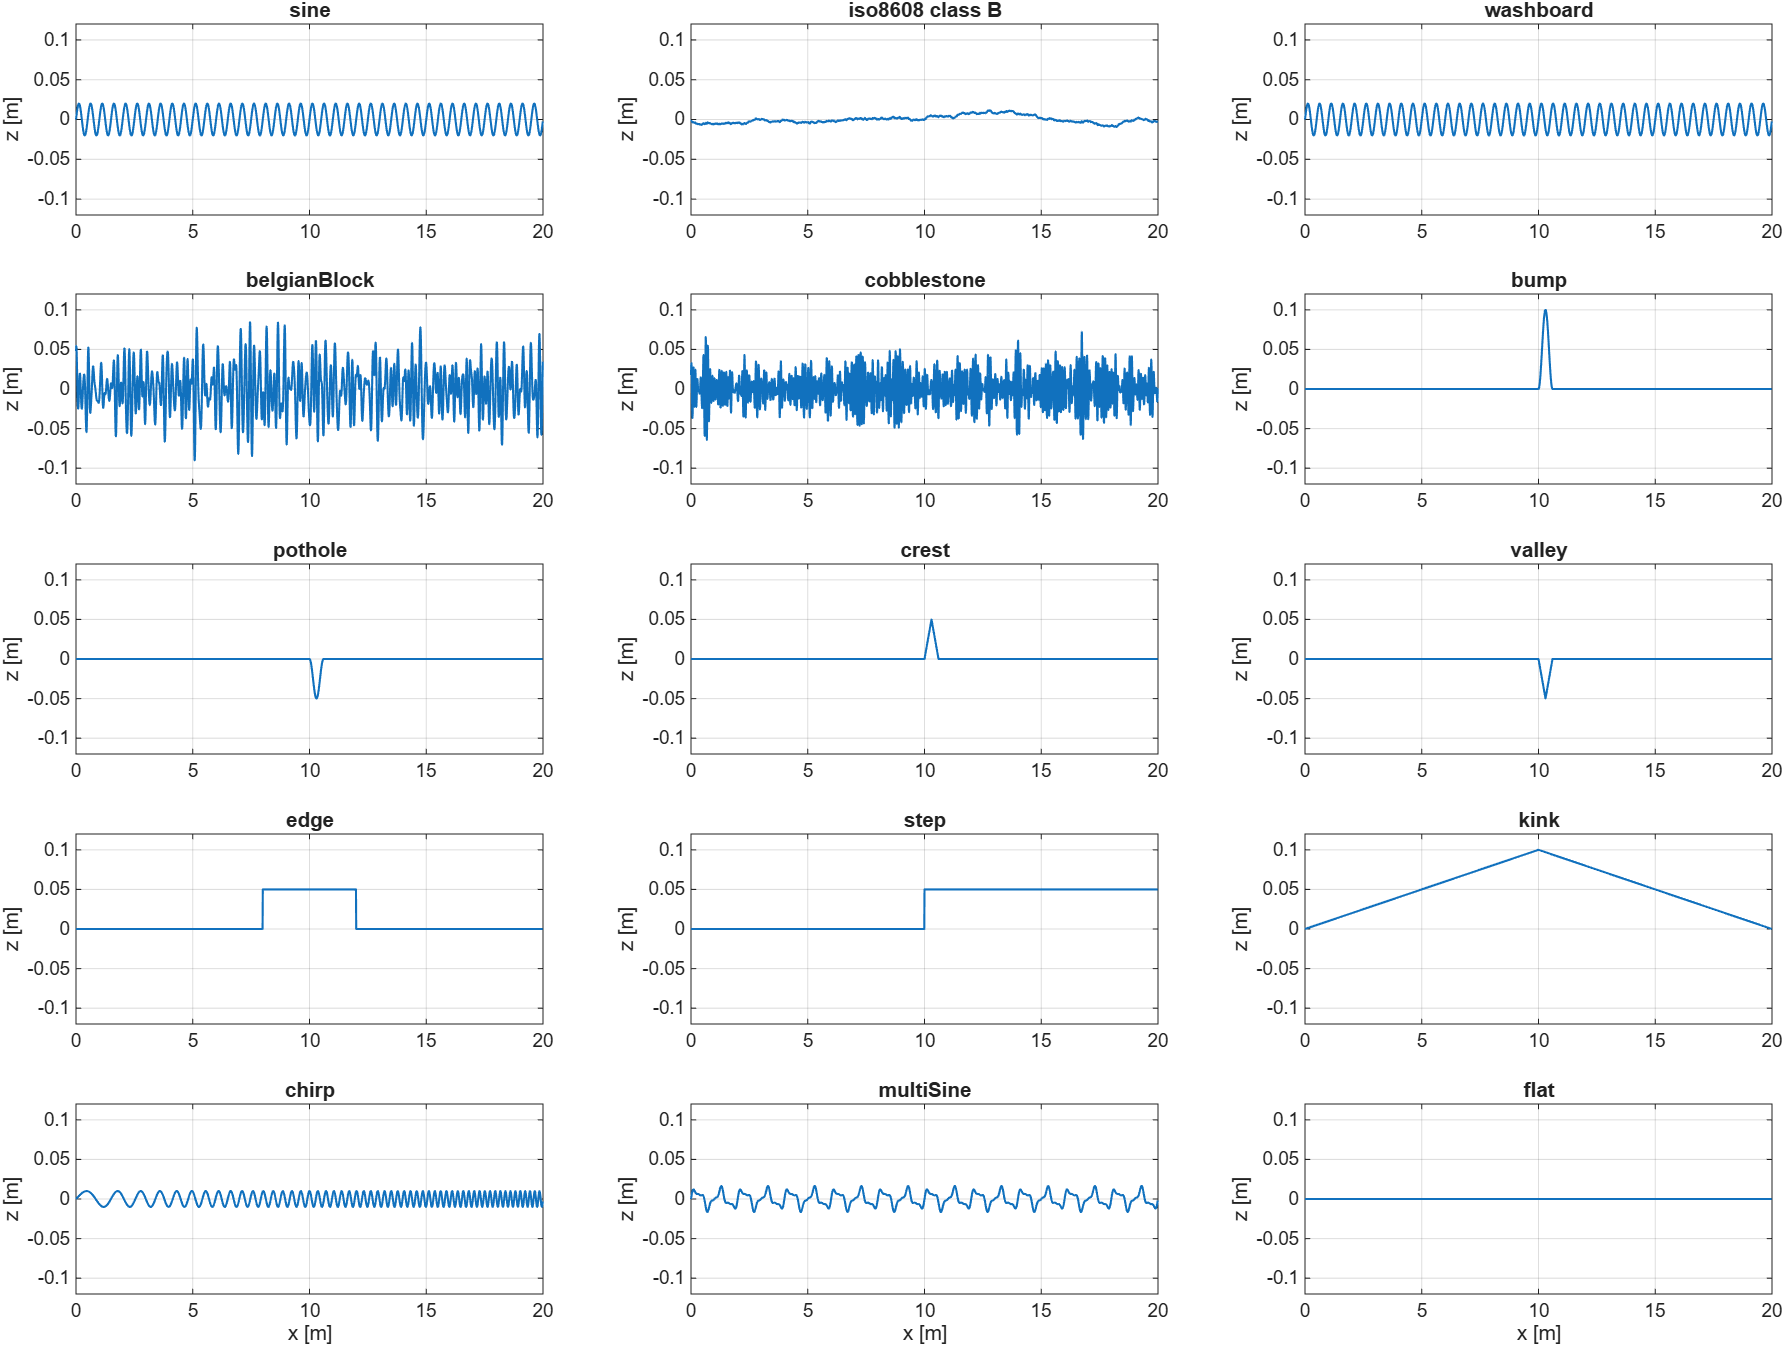
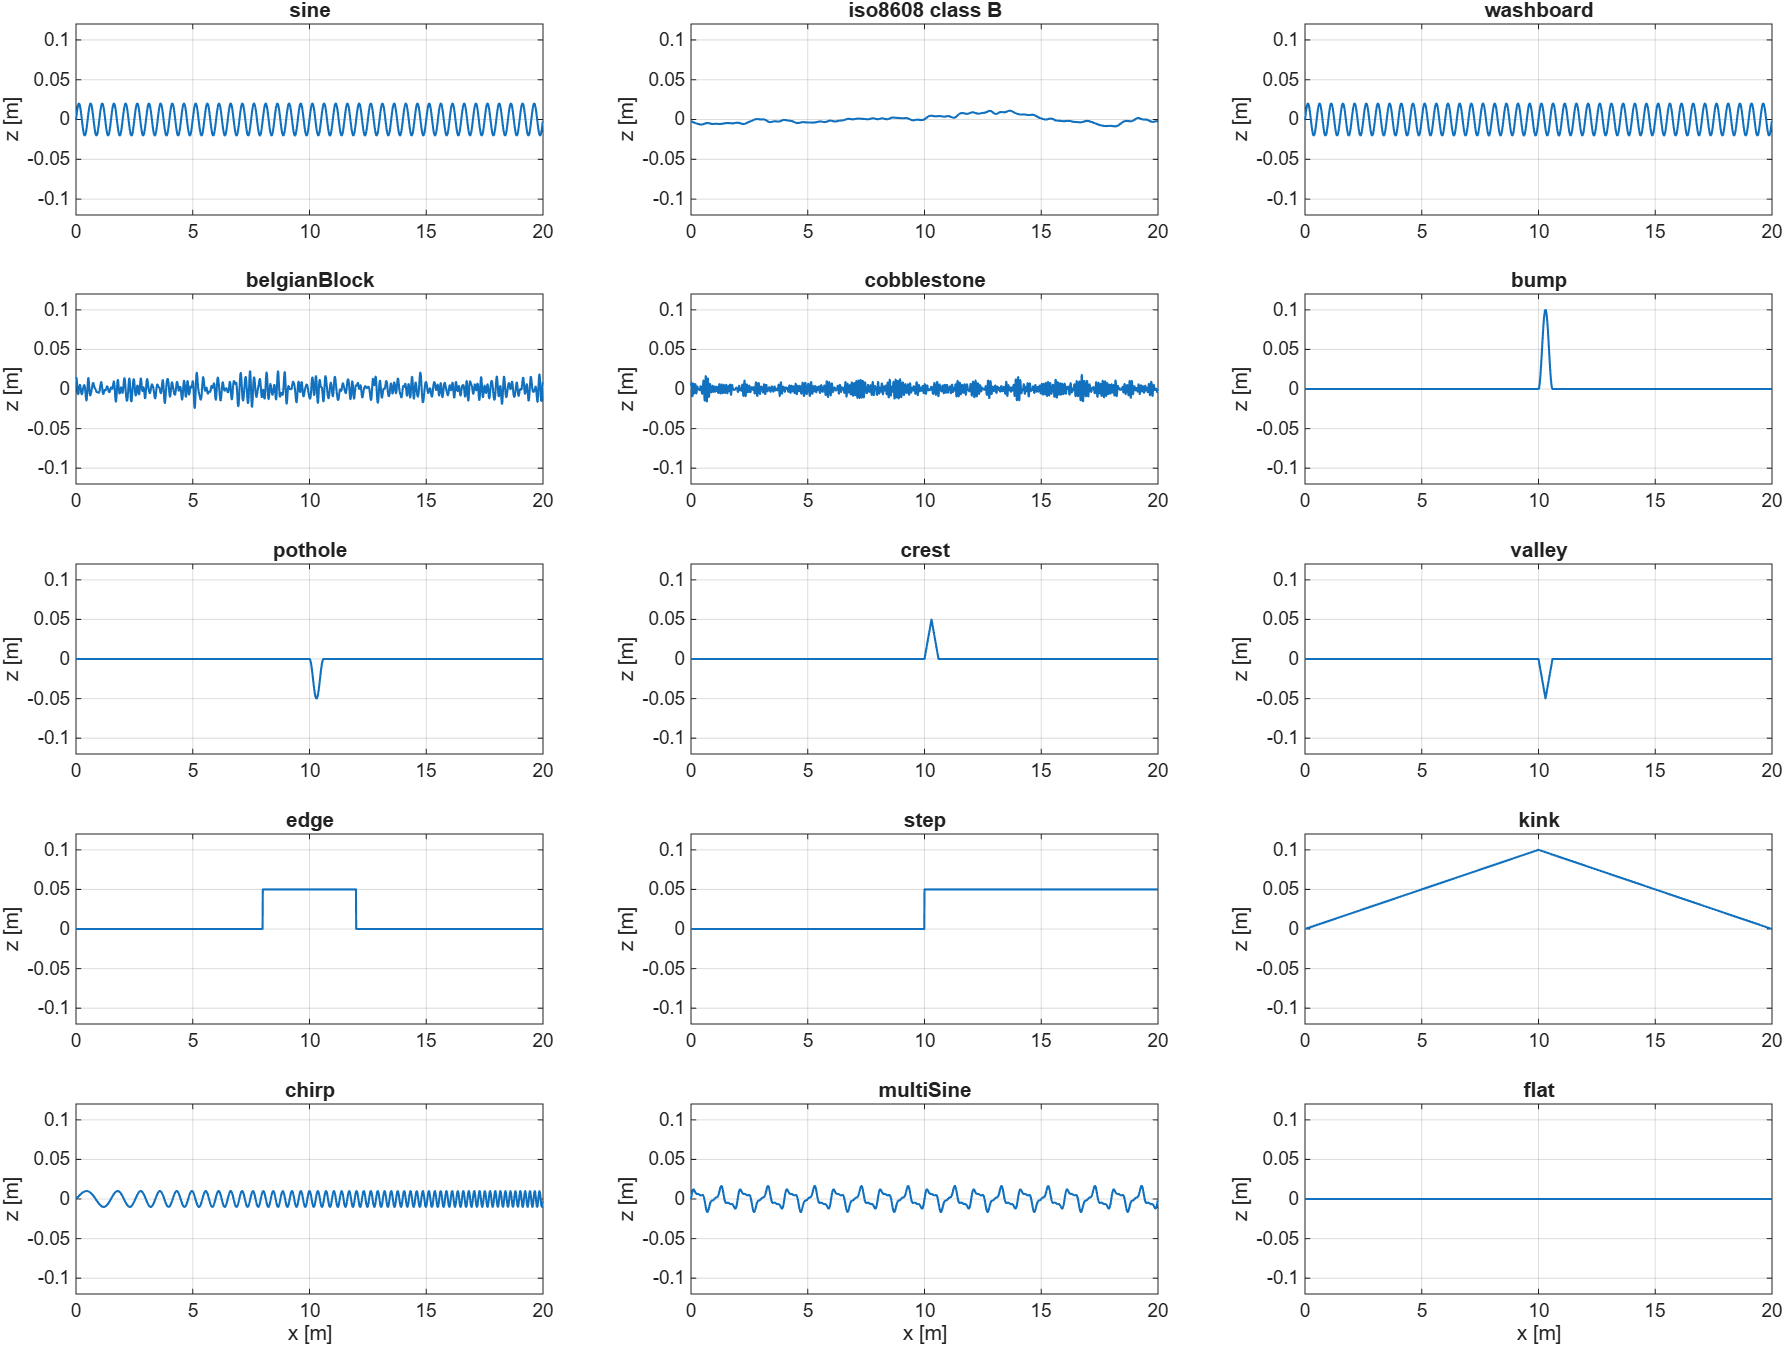
Regenerate figures and add PSD validation and class comparison scripts

Changed region(s): [[0.0308, 0.2496, 0.3083, 0.3432], [0.37, 0.2496, 0.6474, 0.312]]

diff --git a/examples/scenario_showcase.m b/examples/scenario_showcase.m
@@ -2,10 +2,11 @@
 %   Produces two figures:
 %     - results/scenario_showcase.png: full 1000 m scenario, coarse grid
 %       (dx = 0.02 m) to keep the plot readable at page width
-%     - results/scenario_zoom.png: 400-660 m, fine grid (dx = 0.005 m) to
+%     - results/scenario_zoom.png: fine grid (dx = 0.005 m) to
 %       show the two events (bump and pothole) clearly
 
-clear; clc; close all;
+%clear; 
+clc; close all;
 
 here = fileparts(mfilename('fullpath'));
 repoRoot = fileparts(here);
@@ -15,11 +16,11 @@ if ~exist(outDir, 'dir'), mkdir(outDir); end
 L = 1000;
 segs = [
     struct('Start',   0, 'Stop', 250, 'Type', "iso8608",     'Params', {{'B'}})
-    struct('Start', 250, 'Stop', 400, 'Type', "belgianBlock", 'Params', {{0.03, 0.20}})
+    struct('Start', 250, 'Stop', 400, 'Type', "belgianBlock", 'Params', {{0.008, 0.20}})
     struct('Start', 400, 'Stop', 450, 'Type', "flat",         'Params', {{}})
     struct('Start', 450, 'Stop', 450.6, 'Type', "bump",       'Params', {{0.10, 0.6, 0}})
     struct('Start', 450.6, 'Stop', 600, 'Type', "flat",       'Params', {{}})
-    struct('Start', 600, 'Stop', 650, 'Type', "cobblestone",  'Params', {{0.02, 0.10}})
+    struct('Start', 600, 'Stop', 650, 'Type', "cobblestone",  'Params', {{0.005, 0.10}})
     struct('Start', 650, 'Stop', 650.6, 'Type', "pothole",    'Params', {{0.06, 0.6, 0}})
     struct('Start', 650.6, 'Stop', 850, 'Type', "iso8608",    'Params', {{'C'}})
     struct('Start', 850, 'Stop', 900, 'Type', "washboard",    'Params', {{0.02, 0.5}})
@@ -42,11 +43,14 @@ fprintf('Saved %s\n', fullfile(outDir, 'scenario_showcase.png'));
 dxZ = 0.005;
 pZ = roadprofile.compose(L, dxZ, segs, Seed=42);
 fig2 = figure('Color', 'w', 'Position', [100 100 1200 450]);
-plot(pZ.x, pZ.z, 'LineWidth', 1.2);
-grid on;
-xlim([440 660]);
-xlabel('x [m]');
-ylabel('z [m]');
-title('Zoom: bump (450) + flat + cobblestone (600-650) + pothole (650)');
+tiledlayout(1, 2);
+windows = [449 452; 648 653];
+names = ["Bump at 450 m", "Pothole at 650 m"];
+for i = 1:2
+    nexttile;
+    plot(pZ.x, pZ.z, 'LineWidth', 1.2); grid on;
+    xlim(windows(i, :)); xlabel('x [m]'); ylabel('z [m]');
+    title(names(i));
+end
 exportgraphics(fig2, fullfile(outDir, 'scenario_zoom.png'), 'Resolution', 150);
 fprintf('Saved %s\n', fullfile(outDir, 'scenario_zoom.png'));

diff --git a/examples/psd_comparison.m b/examples/psd_comparison.m
@@ -1,0 +1,37 @@
+%PSD_COMPARISON Welch estimate of a generated profile vs ISO 8608.
+
+%clear; 
+clc; close all;
+
+outDir = fullfile(fileparts(fileparts(mfilename('fullpath'))), 'results');
+if ~exist(outDir, 'dir'), mkdir(outDir); end
+
+L = 10000; dx = 0.05; Ls = 200;          % road and segment length [m]
+p = roadprofile.iso8608Profile(L, dx, 'B', Seed=1);
+
+M = round(Ls/dx);  w = 0.5 - 0.5*cos(2*pi*(0:M-1)'/M);   % Hann
+starts = 1:M/2:numel(p.z)-M+1;
+P = zeros(M, 1);
+for i = starts
+    s = p.z(i:i+M-1);
+    P = P + abs(fft((s - mean(s)).*w)).^2;
+end
+P = 2 * P * dx / (numel(starts) * sum(w.^2));            % one-sided [m^3]
+n = (0:M-1)' / (M*dx);
+
+band = n >= 0.03 & n <= 2.5;
+G = roadprofile.iso8608PSD('B', n(band));
+ratio = P(band) ./ G;
+fprintf('Estimate/theory: mean %.3f, min %.3f, max %.3f\n', ...
+    mean(ratio), min(ratio), max(ratio));
+
+fig = figure('Color', 'w', 'Position', [100 100 900 700]);
+tiledlayout(2, 1);
+nexttile;
+loglog(n(band), G, 'k', n(band), P(band), '.');
+grid on; ylabel('G_d(n) [m^3]');
+legend('ISO 8608 class B', sprintf('Welch, %d segments', numel(starts)));
+nexttile;
+semilogx(n(band), ratio); grid on;
+xlabel('n [cycles/m]'); ylabel('estimate / theory'); ylim([0.7 1.3]);
+exportgraphics(fig, fullfile(outDir, 'psd_comparison.png'), 'Resolution', 150);

diff --git a/examples/catalog_overview.m b/examples/catalog_overview.m
@@ -1,7 +1,8 @@
 %CATALOG_OVERVIEW Plot every pattern in the catalog on a common grid.
 %   Produces results/catalog_overview.png, the main figure for the README.
 
-clear; clc; close all;
+%clear; 
+clc; close all;
 
 L = 20; dx = 0.01;
 
@@ -9,8 +10,8 @@ patterns = {
     'sine',           @() roadprofile.sine(L, dx, 2.0, 0.02)
     'iso8608 class B', @() roadprofile.iso8608Profile(L, dx, 'B', Seed=1)
     'washboard',      @() roadprofile.washboard(L, dx, 0.02, 0.5)
-    'belgianBlock',   @() roadprofile.belgianBlock(L, dx, 0.03, 0.2, Seed=1)
-    'cobblestone',    @() roadprofile.cobblestone(L, dx, 0.02, 0.1, Seed=1)
+    'belgianBlock',   @() roadprofile.belgianBlock(L, dx, 0.008, 0.2, Seed=1)
+    'cobblestone',    @() roadprofile.cobblestone(L, dx, 0.005, 0.1, Seed=1)
     'bump',           @() roadprofile.bump(L, dx, 0.10, 0.6, 10)
     'pothole',        @() roadprofile.pothole(L, dx, 0.05, 0.6, 10)
     'crest',          @() roadprofile.crest(L, dx, 0.05, 0.6, 10)

diff --git a/examples/iso8608_classes.m b/examples/iso8608_classes.m
@@ -1,0 +1,17 @@
+%ISO8608_CLASSES Classes A to D with the same seed.
+
+%clear; 
+clc; close all;
+
+outDir = fullfile(fileparts(fileparts(mfilename('fullpath'))), 'results');
+if ~exist(outDir, 'dir'), mkdir(outDir); end
+
+fig = figure('Color', 'w', 'Position', [100 100 1200 600]);
+hold on; grid on;
+for c = ["A" "B" "C" "D"]
+    p = roadprofile.iso8608Profile(100, 0.05, c, Seed=1);
+    plot(p.x, p.z, 'DisplayName', c);
+end
+xlabel('x [m]'); ylabel('z [m]'); legend('Location', 'best');
+title('ISO 8608 profiles, classes A to D (same seed)');
+exportgraphics(fig, fullfile(outDir, 'iso8608_classes.png'), 'Resolution', 150);
